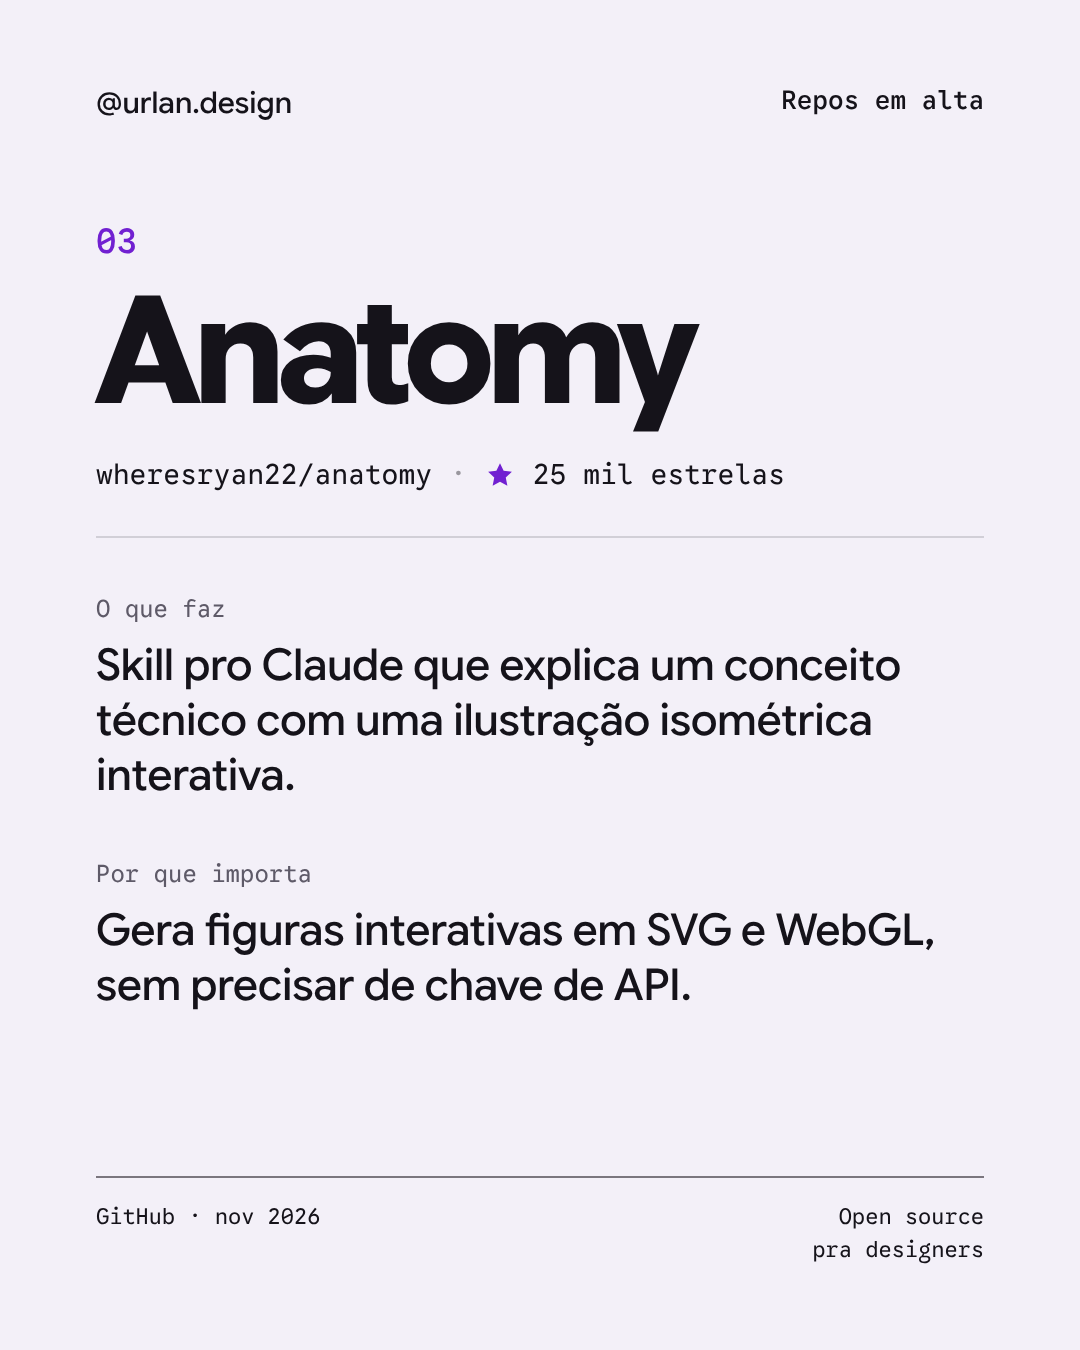
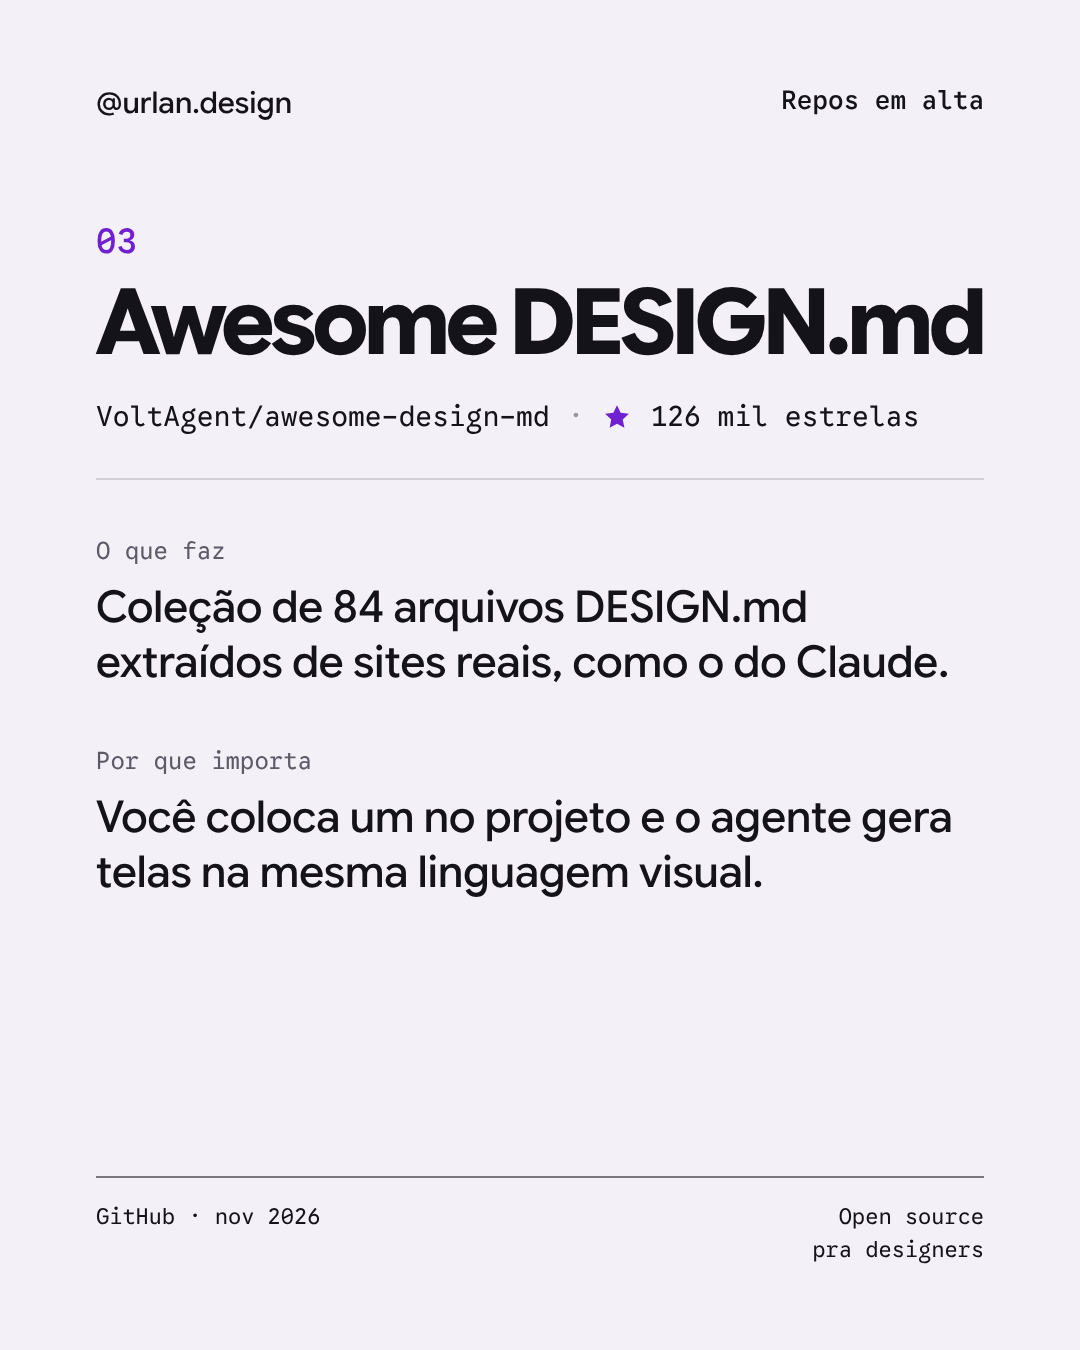
Repos parte 2: troca para Penpot, UI UX Pro Max, Awesome DESIGN.md e Hallmark
Claude-Session: https://claude.ai/code/session_01DwYVZ4p9qWAPLeHrrQbmUv

Changed region(s): [[0.0917, 0.4044, 0.8861, 0.7467], [0.0917, 0.1867, 0.9167, 0.3733]]

diff --git a/template/render.py b/template/render.py
@@ -291,7 +291,7 @@ def ed_item(i, it, total):
   <div style="position:absolute;top:220px;left:96px;right:96px">
     <div style="{MONO};font-size:34px;color:{PURPLE};font-weight:500">{i:02d}</div>
     <div class="fit" style="{CONDENSED};font-size:150px;line-height:.92;margin-top:14px;letter-spacing:-1px;white-space:nowrap">{e(it['name'])}</div>
-    <div style="display:flex;align-items:center;gap:18px;margin-top:30px;{MONO};font-size:28px">
+    <div style="display:flex;align-items:center;gap:18px;margin-top:30px;{MONO};font-size:{it.get('ref_size', 28)}px;white-space:nowrap">
       <span>{e(it['ref'])}</span><span style="opacity:.4">·</span>{star if it.get('star', True) else ''}<span>{e(it['stat'])}</span></div>
     <div style="height:2px;background:rgba(21,19,26,.15);margin-top:44px"></div>
     {block(it.get('label_what', p_foot.get('label_what', 'O QUE FAZ')), it['what'])}
